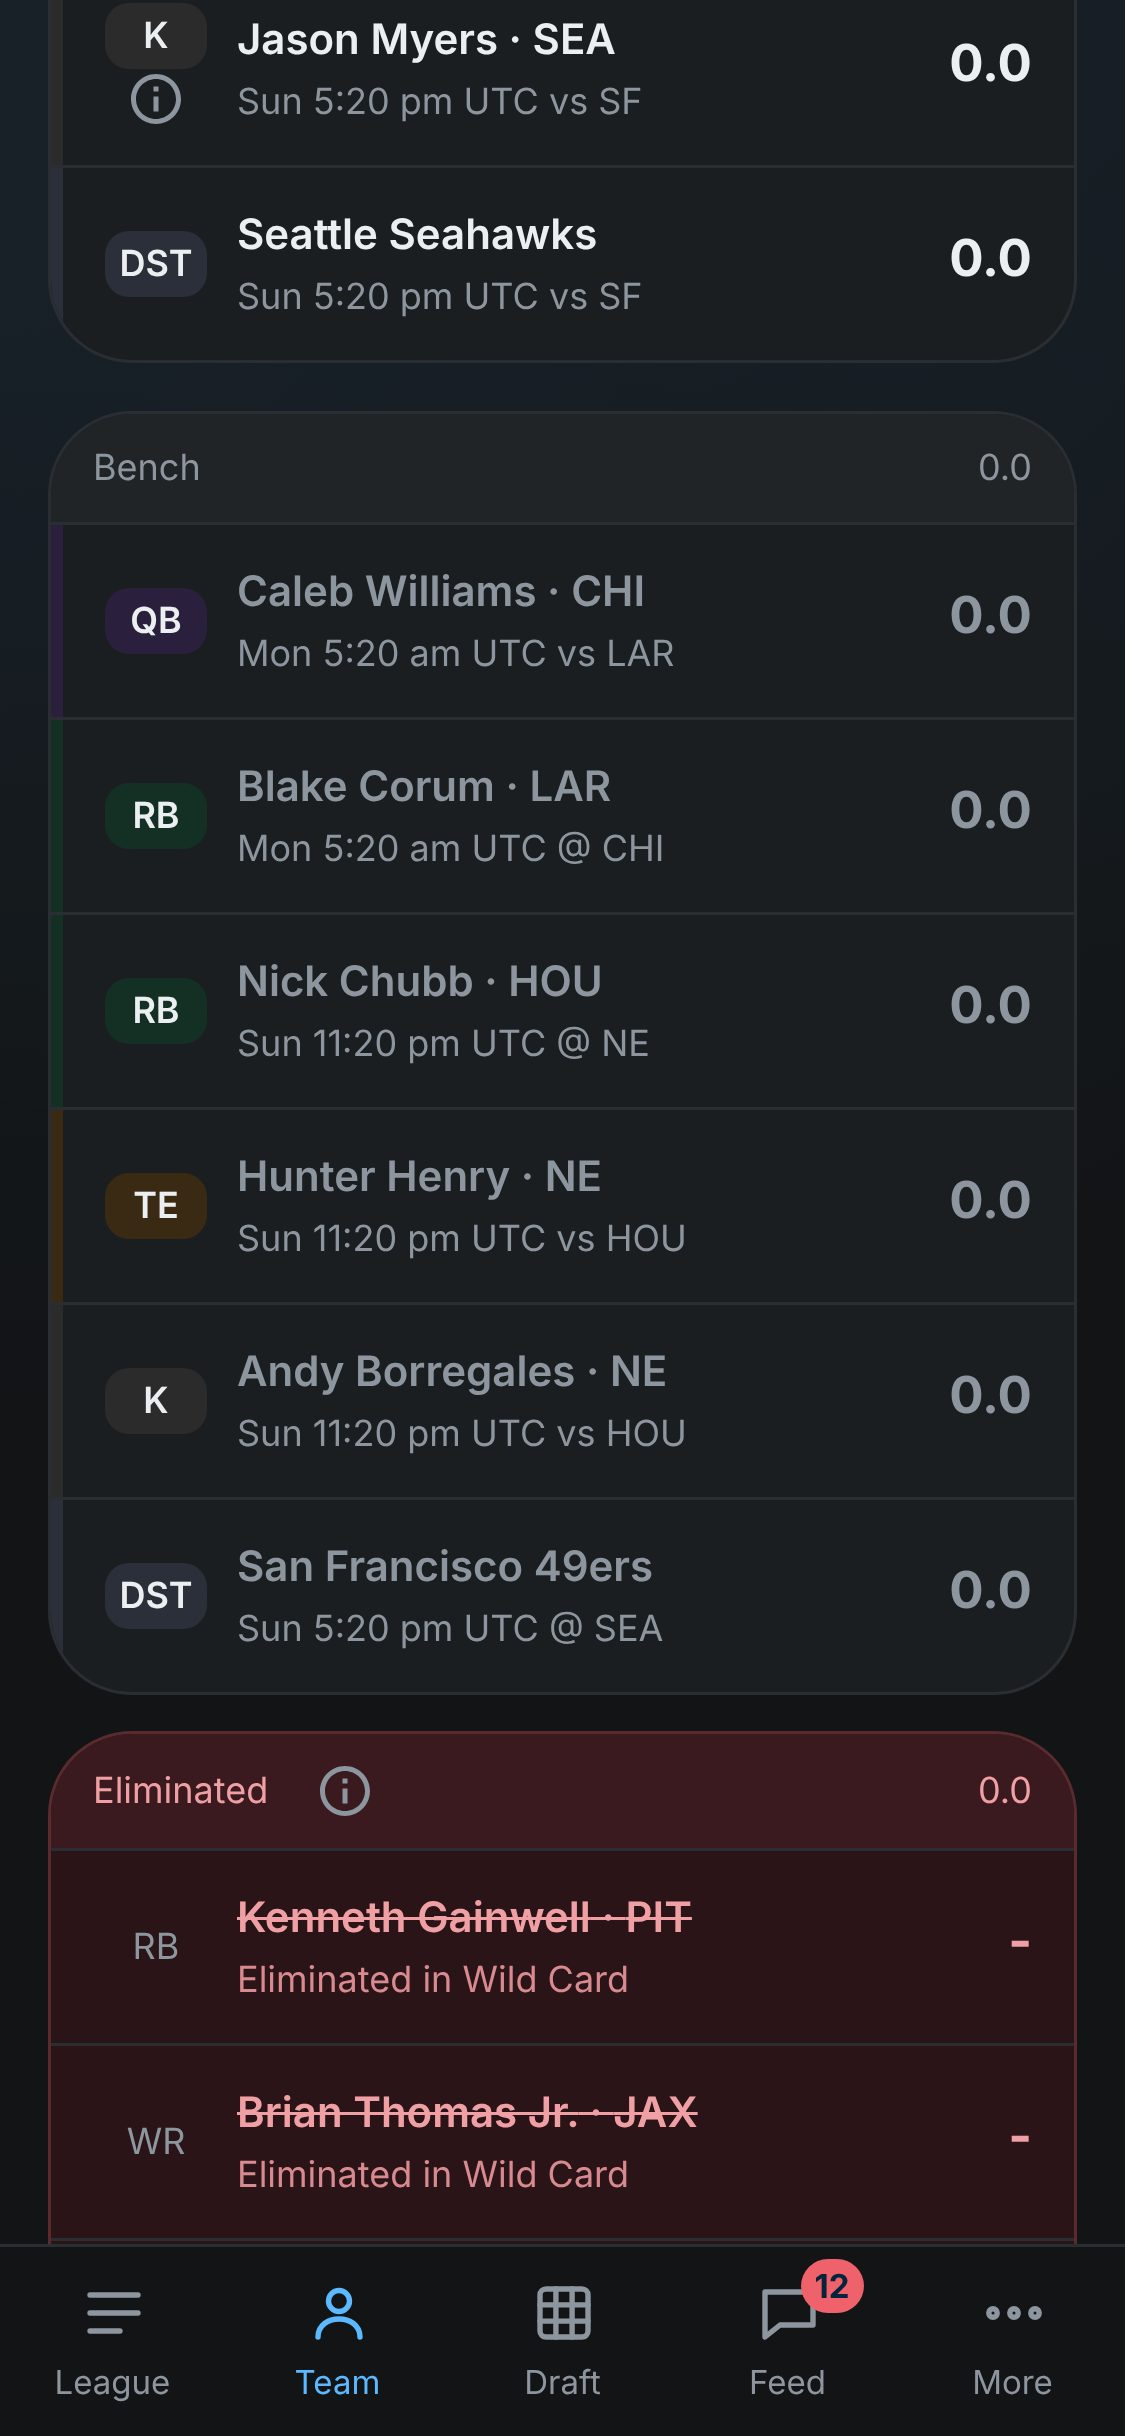
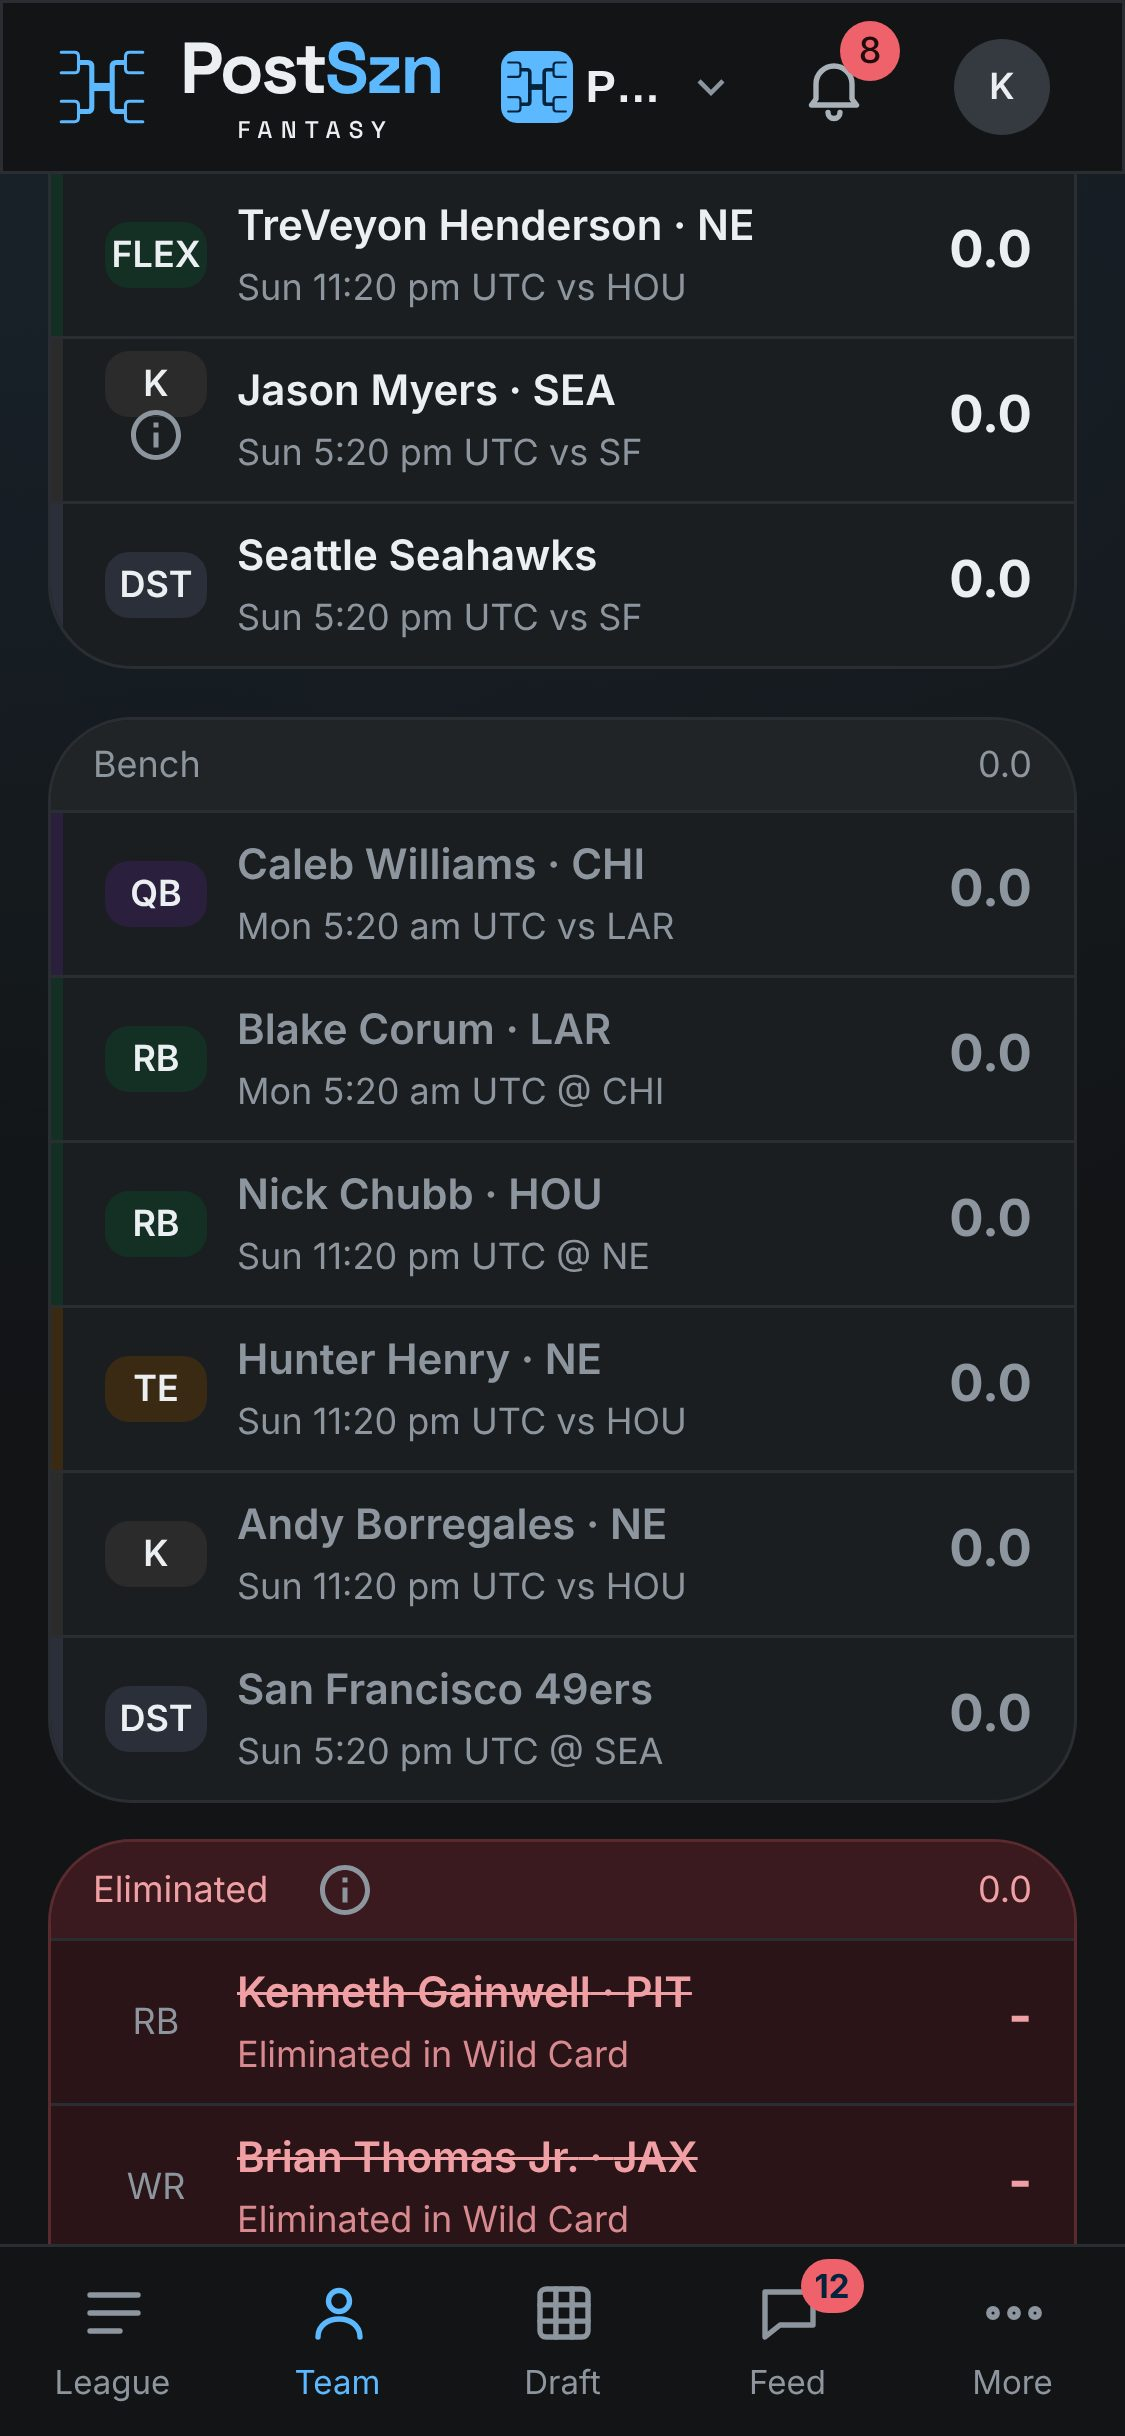
Team page: fit the whole starting lineup on a phone screen (#587)
Rows 65 -> 55px, round strip 56 -> 48px, group title 40 -> 34px, tighter header and gaps; tour recaptured.

Claude-Session: https://claude.ai/code/session_01Joaa4G2rfQGf47ShMgS8XQ

diff --git a/frontend/src/pages/TeamPage.tsx b/frontend/src/pages/TeamPage.tsx
@@ -106,12 +106,12 @@ const TeamContent = ({ team }: { team: TeamDetails }) => {
   return (
     <Container
       maxWidth="md"
-      sx={{ py: { xs: 2, sm: 3 }, display: "flex", flexDirection: "column", gap: 1.5 }}
+      sx={{ py: { xs: 1, sm: 3 }, display: "flex", flexDirection: "column", gap: 1 }}
     >
       <Box
         sx={{ display: "flex", justifyContent: "space-between", alignItems: "center", gap: 1.5 }}
       >
-        <PictureAvatar url={team.avatarUrl} name={team.name} size={48} />
+        <PictureAvatar url={team.avatarUrl} name={team.name} size={44} />
         <Box sx={{ minWidth: 0, flexGrow: 1 }}>
           <Box sx={{ display: "flex", alignItems: "center", gap: 0.5 }}>
             <Typography
@@ -120,7 +120,10 @@ const TeamContent = ({ team }: { team: TeamDetails }) => {
             >
               {team.name}
             </Typography>
-            <CogButton label="Team settings" onClick={() => setSettingsOpen(true)} />
+            {/* Negative margins only: the cog keeps its full tap target but stops adding height. */}
+            <Box sx={{ my: -0.75 }}>
+              <CogButton label="Team settings" onClick={() => setSettingsOpen(true)} />
+            </Box>
           </Box>
           <Typography component="span" sx={{ fontSize: { xs: 12, md: 13 }, color: tokens.muted }}>
             {owner}

diff --git a/frontend/src/components/team/PlayerRow.tsx b/frontend/src/components/team/PlayerRow.tsx
@@ -121,7 +121,7 @@ const PlayerRow = ({
             minWidth: 0,
             // Every row is the same height whatever it shows: injury, mark and badges are
             // inline, and a "?" sits under the slot label.
-            height: 64,
+            height: 54,
             display: "flex",
             alignItems: "center",
             justifyContent: "flex-start",
@@ -137,7 +137,7 @@ const PlayerRow = ({
             sx={{
               width: 34,
               flexShrink: 0,
-              ...(help ? { alignSelf: "flex-start", mt: 1.25 } : {}),
+              ...(help ? { alignSelf: "flex-start", mt: 0.5 } : {}),
               fontSize: 12,
               textAlign: "center",
               color: player ? colors.label : tokens.muted,
@@ -213,7 +213,7 @@ const PlayerRow = ({
           </Box>
         )}
         {mark && (
-          <Box sx={{ position: "absolute", right: 60, top: 10, zIndex: 1 }}>
+          <Box sx={{ position: "absolute", right: 60, top: 6, zIndex: 1 }}>
             <SlotMarker mark={mark} empty={player === null} />
           </Box>
         )}

diff --git a/frontend/src/components/team/LineupRound.tsx b/frontend/src/components/team/LineupRound.tsx
@@ -54,7 +54,7 @@ const Group = ({
         alignItems: "center",
         gap: 1,
         px: 1.75,
-        py: 1.125,
+        py: 0.75,
         fontSize: 12,
         bgcolor: danger ? tokens.dangerHeader : tokens.surfaceRaised,
         color: danger ? tokens.redSoft : tokens.muted,
@@ -95,7 +95,7 @@ const EmptyRow = ({ text }: { text: string }) => (
     component="li"
     sx={{
       borderTop: `1px solid ${tokens.border}`,
-      minHeight: 56,
+      minHeight: 54,
       display: "flex",
       alignItems: "center",
       px: 1.75,

diff --git a/frontend/src/components/team/RoundStrip.tsx b/frontend/src/components/team/RoundStrip.tsx
@@ -32,8 +32,8 @@ const RoundStrip = ({ lineups, round, onSelect }: Props) => (
           onClick={() => onSelect(lineup.round)}
           sx={{
             display: "block",
-            minHeight: 56,
-            py: selected ? "7px" : "8px",
+            minHeight: 48,
+            py: selected ? "3px" : "4px",
             textAlign: "center",
             borderRadius: "10px",
             border: selected ? `2px solid ${tokens.accent}` : `1px solid ${tokens.borderStrong}`,

diff --git a/AGENTS.md b/AGENTS.md
@@ -252,7 +252,7 @@ PostSznFantasy/
         │   ├── players/        # PlayersView (the league player list: one row of search (takes the whole row while it has focus), a Filters button and a Sort dropdown (`FilterMenu` with `icon`); Filters shows or hides the filter rows until tapped again, with a badge counting filters off their starting choice: positions on one row, then NFL / Fantasy and Status (All / Available / Drafted, Undrafted after the draft); with a `draft` prop it adds Draft and queue buttons and Status starts on Available; e2e picks a position through `choosePosition` in `e2e/support/draft.ts`), FilterMenu, playerRows.ts (pool + season stats rows, stat line, filters, sorts)
         │   ├── share/          # Shareable cards (#395): `shareCards.ts` (pure card models from the recap, standings and draft: champion with the top 3, a finished round's top 3, the draft board (teams as columns, rounds as rows, position colours, sized by `cardSize`); display and team names only, never an email; none until the Super Bowl is final, the round is over or the draft is complete), `renderCard.ts` (draws a PNG (1080x1350 for the podium cards, the draft board sized to its teams and rounds) on a canvas with the `palettes` hex of the current theme, since CSS variables don't reach a canvas), `ShareCardButton` (Share champion on the recap, Share round result under the standings of an open season, Share draft board on the finished Draft tab). Client-side only, so nothing exists for a deleted league (its pages answer 404)
         │   ├── recap/          # SeasonRecap: champion card, Playoff MVP and champion's MVP, awards by position, start the next season (gated by `canStartSeason`)
-        │   ├── team/           # RoundStrip, LineupRound (Starters / Bench / Eliminated groups, always shown: before the draft the same groups sit empty, with team QB / K "?" on those slots), PlayerRow (live rows take `tokens.live`, the accent blue; the detail line is the quarter and clock, "Q2 6:56 · stats"; once his game is final it leads with a green ADVANCES or red ELIMINATED outlined pill (`OutcomePill`, from `gameOutcome` in `lineupView.ts`; CHAMPION for the Super Bowl's winner; nothing without a score), then "27-20 · stats", and a loser's name gets a red strike-through (a team that lost is out for the playoffs); the whole row opens the player sheet; the score is not its own button), PlayerSheet (the one place for a player, built from `PlayerStats.tsx` (`PlayerDrawer`, `ThisGame`, `Postseason`, `RegularSeason`, shared with the schedule's `GamePlayerSheet`), in titled sections: This game (the round shown, once it has kicked off: stat line, one line per scoring stat from the lineup player's `pointsBreakdown`, the round multiplier when not 1, Fantasy points), Postseason (`postseasonLines`: one line with points per earlier round he played, only once one is final), Regular season; then tap-only moves through `MoveList` (shared with `SlotPickerSheet`): the moves anybody may make up top, a commissioner's overrides folded under a closed "Commissioner actions (N)" caret at the bottom, still confirmed by `OverrideDialog`; reusable from the Players list and draft room with a lineup), `moves.ts` (swap-aware move options: a bench player swaps with or fills a starter slot; a starter goes to the bench, swaps with an eligible bench player, moves between his position's slot and FLEX (any RB, WR or TE: trading places when the other starter can play his slot, else sending that one to an open bench spot, offered only when one is open), or moves to an empty starter slot; `slotFillOptions` for an empty slot), SlotPickerSheet (an empty starter row opens it: the bench players who can fill that slot), `lineupView.ts` (row states, subtotals), `seasonLines.ts`, OverrideDialog (commissioner confirm)
+        │   ├── team/           # (compact layout, #586: `PlayerRow` is a fixed 54px high, the round strip 48px; keep the whole starting lineup on one phone screenshot) RoundStrip, LineupRound (Starters / Bench / Eliminated groups, always shown: before the draft the same groups sit empty, with team QB / K "?" on those slots), PlayerRow (live rows take `tokens.live`, the accent blue; the detail line is the quarter and clock, "Q2 6:56 · stats"; once his game is final it leads with a green ADVANCES or red ELIMINATED outlined pill (`OutcomePill`, from `gameOutcome` in `lineupView.ts`; CHAMPION for the Super Bowl's winner; nothing without a score), then "27-20 · stats", and a loser's name gets a red strike-through (a team that lost is out for the playoffs); the whole row opens the player sheet; the score is not its own button), PlayerSheet (the one place for a player, built from `PlayerStats.tsx` (`PlayerDrawer`, `ThisGame`, `Postseason`, `RegularSeason`, shared with the schedule's `GamePlayerSheet`), in titled sections: This game (the round shown, once it has kicked off: stat line, one line per scoring stat from the lineup player's `pointsBreakdown`, the round multiplier when not 1, Fantasy points), Postseason (`postseasonLines`: one line with points per earlier round he played, only once one is final), Regular season; then tap-only moves through `MoveList` (shared with `SlotPickerSheet`): the moves anybody may make up top, a commissioner's overrides folded under a closed "Commissioner actions (N)" caret at the bottom, still confirmed by `OverrideDialog`; reusable from the Players list and draft room with a lineup), `moves.ts` (swap-aware move options: a bench player swaps with or fills a starter slot; a starter goes to the bench, swaps with an eligible bench player, moves between his position's slot and FLEX (any RB, WR or TE: trading places when the other starter can play his slot, else sending that one to an open bench spot, offered only when one is open), or moves to an empty starter slot; `slotFillOptions` for an empty slot), SlotPickerSheet (an empty starter row opens it: the bench players who can fill that slot), `lineupView.ts` (row states, subtotals), `seasonLines.ts`, OverrideDialog (commissioner confirm)
         │   ├── avatar/         # AvatarSheet (choose, drag and zoom inside a circle, save a 512 px JPEG; remove) and `crop.ts` (crop math, 5 MB source limit)
         │   ├── support/        # FeedbackSheet (More, Send feedback: optional rating, what was good, what was bad), ReportProblemSheet (More, Report a problem: message, images, diagnostics preview) and `images.ts` (5 images, 5 MB each, 15 MB total, the API's wording)
         │   └── settings/       # AccountSheet (the account center, opened from the profile sheet's Account row: change email through `changeEmail` (Supabase `updateUser`, confirmation link, no change until followed), sign-in methods, time zone and clock (`TimeFormatSheet`), notification devices with Remove, Download my data, Sign out everywhere (`signOutEverywhere`: removes every push device, then Supabase global sign-out)), ProfileSheet (profile settings from the avatar: display name, Account, theme, notifications, sign out, and for the site admin only (`utils/admin.ts` `isAdminHint`, `VITE_ADMIN_SUPABASE_UIDS`) an Admin section, `AdminSection`, with Refresh live stats: one live-poll cycle via `POST /api/admin/refresh/live`), TeamSettingsSheet (team name, owner; opened from the Team page cog), CogButton (a cog that links or opens a sheet), NotificationsToggle (the push switch in the profile sheet; while on, the switch per kind and Quiet hours fold under a closed "Choose which alerts · N of M on" caret, which sends the browser's time zone, and the iPhone and Android tips); SettingsCard/SettingsRow (row primitives), SettingsSheet (bottom sheet on phones, dialog on desktop), EditTextSheet (one-field edits), MembersSheet + members.ts (commissioner toggle per member; the only commissioner's toggle is locked; removal confirms; `readOnly` for members), InviteSheet, NotificationsRow (placeholder until push ships), SettingsGroup (accordion row), SettingsSection/ScoringForm/RosterForm generated from src/settings schemas (a closed block shows its summary, an open one only its rows; the summary and the read-only form list each scored field as a grey label with its points in bold on the right, `summaryLines`, never "label value" run together; a field empties when tapped and gets its old value back if left blank (a position limit selects instead, since blank means No limit); a row off its default (`defaults` prop: `useScoringDefaults`, `ROSTER_DEFAULTS` in `settings/rosterGroups.ts`) shows a reset arrow; each row's ⓘ is a fixed sentence from `SETTING_FIELD_HELP` in `content/rules.ts`, never a live calculation; a field's `subheading` opens a titled part, e.g. Special teams inside Defense / Special Teams; a locked or read-only form renders plain text via `ReadOnlyValue`, never a disabled input; a locked roster is a one-line-per-group summary with its own "Locked since the draft started." note); DeleteLeagueDialog (three-step confirm: warning with season count, type the exact name, final "Are you sure?")

diff --git a/docs/ui/README.md b/docs/ui/README.md
@@ -101,6 +101,7 @@ The old overall "best draft value", "biggest bust", "best bench" and "best game"
 - Header: team name with a **cog** (team settings), "You" or owner and rank (no "read only" label on any team or round), total.
 - Round strip, four cells wide (Wild Card, Divisional, Conference Championship, Super Bowl) with each round's team score; the current round is selected by default; tapping one shows that round's lineup. The round score is the sum of that round's starter scores and appears prominently in the Starters header; Bench has its own subtotal, the sum of its players.
 - Groups per round: **Starters**, **Bench**, **Eliminated** (red treatment), each with a subtotal. A finished round shows a "Final" pill on Starters. Every row shows the player's **position** (never "BN"; a bench player is a WR or RB), name, a one-line stat line and a score.
+- **Compact on purpose (#586)**: the whole starting lineup must fit above the tab bar on a phone screenshot (about 412x915; a 9-starter lineup also fits 375x812). Rows are a fixed 54px (55 with the divider, was 65), the header and the gaps between header, round strip and Starters are tight (the cog keeps its 40px tap target through negative margins), the round strip cells are 48px (was 56) and the group title rows 34px (was 40). Rows stay equal height whatever they show.
 - Starter slots are QB, RB, WR, TE, FLEX, K and **DST**; the league's roster settings decide which appear. The DST shows the team defense with its stat line and points.
 - Each player has a visual state, shown on the position label and (for live players) the whole row:
   - **White**: movable, his game has not kicked off.
